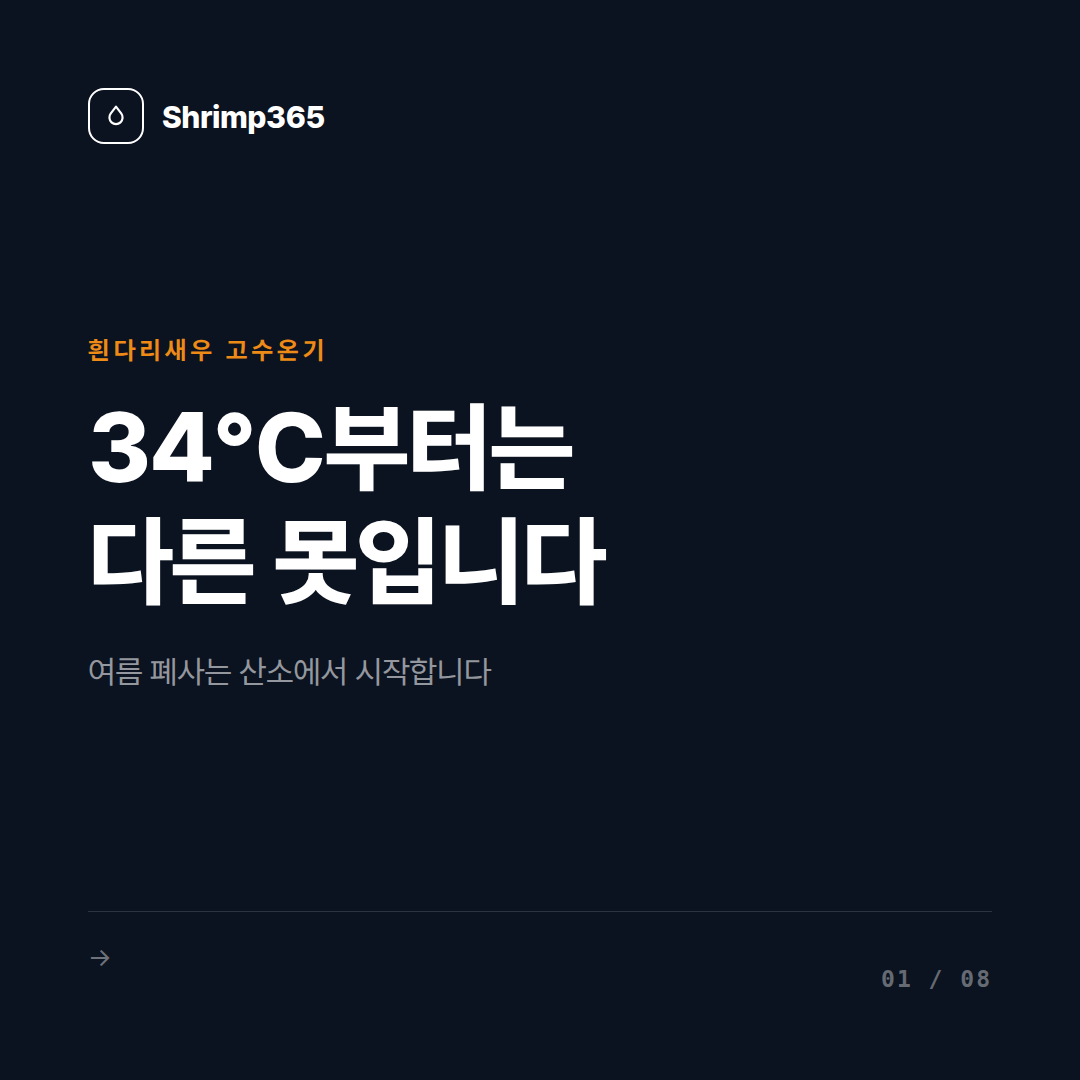
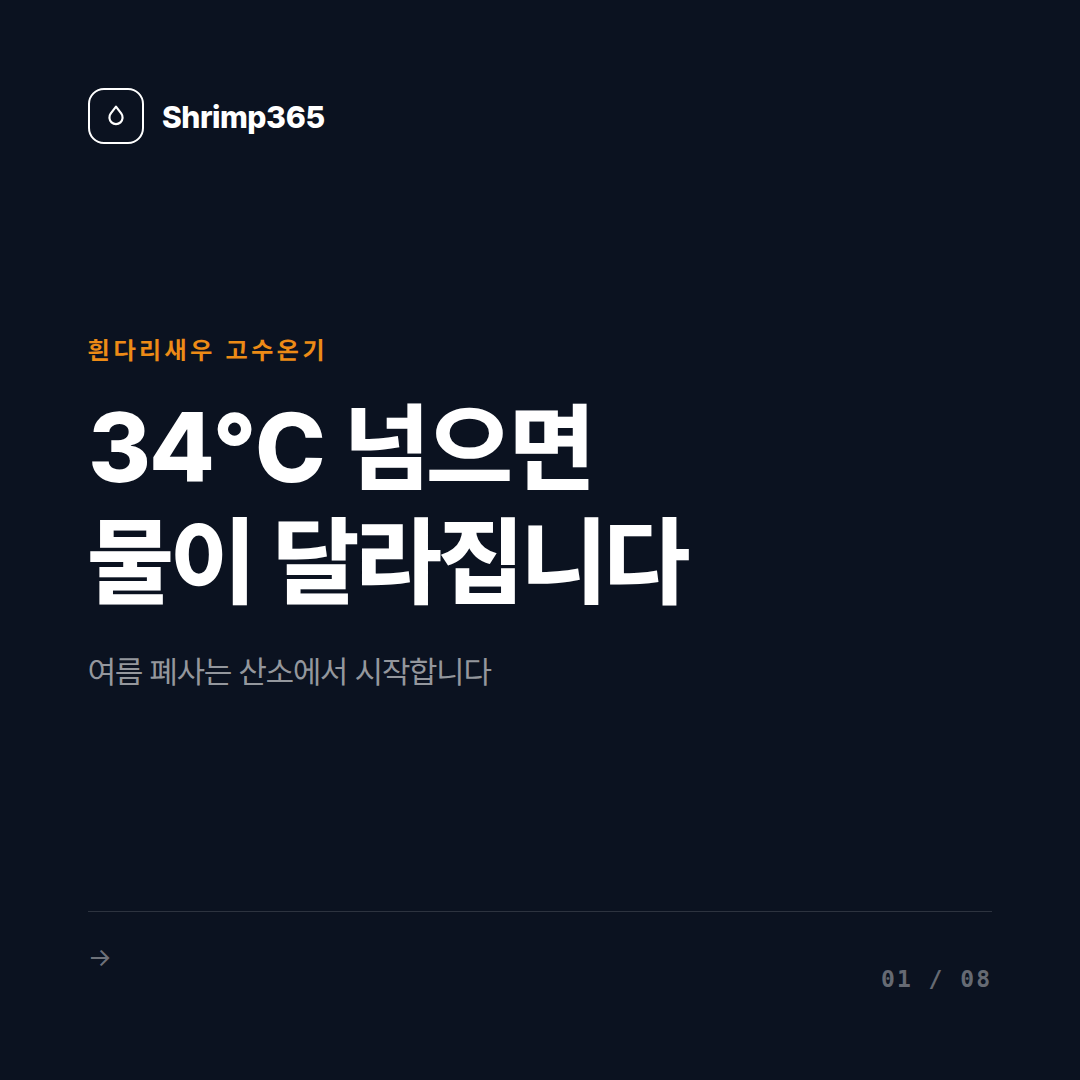
용어 고정 — 못(pond) → 양식장
한국어에서 "못"은 부정 부사(못 한다)나 못(釘)으로 먼저 읽혀,
특히 표지처럼 문맥 없이 한 줄만 보이는 자리에서 오독된다.

- cardnews-writing 스킬에 고정어 표를 넣고, 도윤·나리 정의에도 명시
- 고수온기 편 본문 6곳과 제목을 양식장으로 교체
- 표지 대제목도 은유를 걷어냈다:
  "34℃부터는 / 다른 못입니다" → "34℃ 넘으면 / 물이 달라집니다"
  숫자를 앞에 두고, 본문의 산소 이야기로 바로 이어진다
- 한국어 카드 재렌더 (표지 1장만 변경 — 결정적 렌더 확인)

영어 pond·베트남어 ao·인도네시아어 tambak은 명사가 분명해 그대로 둔다.

Claude-Session: https://claude.ai/code/session_017EsN5SFSDgrYYZFqbLQU2t

Changed region(s): [[0.0611, 0.3667, 0.6417, 0.5806]]

diff --git a/.claude/skills/cardnews-writing/SKILL.md b/.claude/skills/cardnews-writing/SKILL.md
@@ -88,6 +88,15 @@ grep -o '\$cn\$[a-z-]*\$cn\$, \$cn\$ko\$cn\$' supabase/migrations/card_news_seed
 
 쓰지 않는 표현: "요즘 핫한", "꿀팁", "필수템", 이모지 남발, 과장된 느낌표.
 
+## 용어 — 고정어
+
+| 뜻 | 쓴다 | 쓰지 않는다 |
+|---|---|---|
+| 새우를 기르는 물 공간(pond) | **양식장** | ~~못~~, ~~연못~~, ~~지(池)~~ |
+
+**"못"은 쓰지 않는다.** 한국어에서 "못"은 부정 부사(못 한다)나 못(釘)으로 먼저 읽혀서, 특히 표지처럼 문맥 없이 한 줄만 보이는 자리에서 오독된다.
+영어는 `pond`, 베트남어는 `ao`, 인도네시아어는 `tambak`을 쓴다 — 이쪽은 명사가 분명해 문제가 없다.
+
 ## DB 필드
 
 `app/api/cardnews/route.ts`의 `normalize()`가 아래 상한을 강제한다. 넘으면 **에러가 아니라 조용히 잘린다.**

diff --git a/.claude/agents/nari-sns-editor.md b/.claude/agents/nari-sns-editor.md
@@ -48,7 +48,10 @@ tools: Read, Write, Glob, Grep
 - 반박 — "낮에 잰 DO를 믿지 마세요"
 - 시각·수치 — "새벽 4시, 산소가 가장 낮습니다"
 
-작동하지 않는 형태: "수질 관리의 모든 것", "알아두면 좋은 팁", 물음표로 끝나는 막연한 질문.
+작동하지 않는 형태: "수질 관리의 모든 것", "알아두면 좋은 팁", 물음표로 끝나는 막연한 질문, **은유**.
+
+표지는 스크롤하다 0.5초 보는 자리다. 한 번에 안 읽히면 진 것이다.
+새우를 기르는 물 공간은 **"양식장"** 으로 쓴다 — "못"은 부정 부사나 못(釘)으로 오독된다.
 
 ## 산출물
 

diff --git a/.claude/agents/doyun-copywriter.md b/.claude/agents/doyun-copywriter.md
@@ -25,6 +25,8 @@ tools: Read, Write, Glob, Grep
 
 쓰지 않는 표현: "요즘 핫한", "꿀팁", "필수템", 이모지 남발, 과장된 느낌표.
 
+**고정어**: 새우를 기르는 물 공간은 **"양식장"** 이다. **"못"을 쓰지 마라** — 한국어에서 부정 부사(못 한다)나 못(釘)으로 먼저 읽혀 오독된다. 영어 `pond`, 베트남어 `ao`, 인도네시아어 `tambak`은 그대로 쓴다.
+
 ## 카드 문구 — 짧은 쪽
 
 화면이 손바닥만 하다. **글자 수가 곧 가독성이다.**
